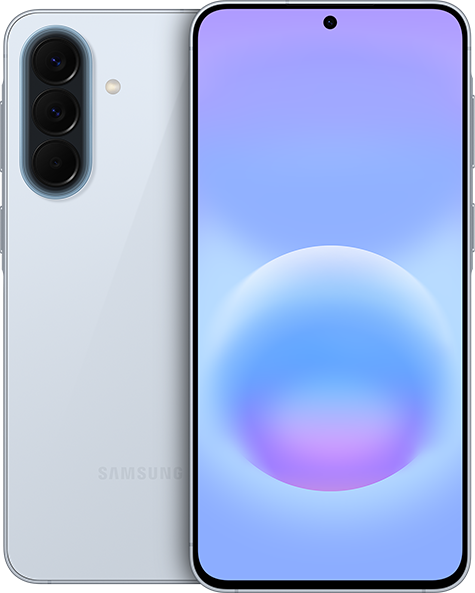
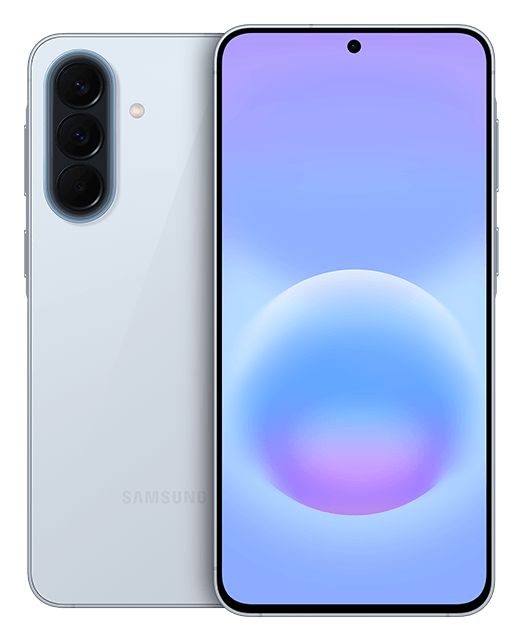
perf(visuels): recadrer et alléger les neuf visuels produits existants
Recadrage homogène (marge transparente de 4 % autour du produit), 900 px
au plus, PNG à palette quand l'écart reste invisible : ip18.png passe de
789 Ko à 157 Ko, l'ensemble des neuf visuels de 2,3 Mo à 0,75 Mo.

diff --git a/src/data/catalog.ts b/src/data/catalog.ts
@@ -97,8 +97,8 @@ export const products: readonly ProductDetail[] = [
     min_price_fcfa: 849000,
     in_stock: true,
     image_src: "/products/ip18.png",
-    image_width: 618,
-    image_height: 746,
+    image_width: 505,
+    image_height: 600,
     image_alt: "iPhone 18 Pro bordeaux, vue de face et de dos",
     variants: [
       variant("IP18-BOR-256", "Bordeaux · 256 Go", "bordeaux", "#5A1F2B", 849000, 0, {
@@ -146,8 +146,8 @@ export const products: readonly ProductDetail[] = [
     min_price_fcfa: 349000,
     in_stock: true,
     image_src: "/products/a57.png",
-    image_width: 475,
-    image_height: 593,
+    image_width: 523,
+    image_height: 641,
     image_alt: "Galaxy A57 5G bleu clair, vues de face et de dos",
     variants: [
       variant("A57-BLE-128", "Bleu glacier · 128 Go", "bleu-glacier", "#CFE0EE", 349000, 0, {
@@ -194,8 +194,8 @@ export const products: readonly ProductDetail[] = [
     min_price_fcfa: 289000,
     in_stock: true,
     image_src: "/products/rn15.png",
-    image_width: 409,
-    image_height: 599,
+    image_width: 457,
+    image_height: 647,
     image_alt: "Redmi Note 15 Pro+ 5G, plusieurs coloris",
     variants: [
       variant("RN15-NOI-256", "Noir · 256 Go", "noir", "#26282E", 289000, 0, {
@@ -244,8 +244,8 @@ export const products: readonly ProductDetail[] = [
     min_price_fcfa: 95000,
     in_stock: true,
     image_src: "/products/ap5.png",
-    image_width: 554,
-    image_height: 813,
+    image_width: 620,
+    image_height: 879,
     image_alt: "Écouteurs AirPods 5 et boîtier de recharge",
     variants: [variant("AP5-BLA", "Blanc", "blanc", "#FFFFFF", 95000, 0, { stock: 24 })],
     specs: {
@@ -273,8 +273,8 @@ export const products: readonly ProductDetail[] = [
     min_price_fcfa: 119000,
     in_stock: true,
     image_src: "/products/gb4.png",
-    image_width: 424,
-    image_height: 583,
+    image_width: 470,
+    image_height: 629,
     image_alt: "Écouteurs Galaxy Buds 4 blancs et boîtier",
     variants: [
       variant("GB4-BLA", "Blanc", "blanc", "#FFFFFF", 119000, 0),
@@ -305,8 +305,8 @@ export const products: readonly ProductDetail[] = [
     min_price_fcfa: 279000,
     in_stock: true,
     image_src: "/products/aw12.png",
-    image_width: 406,
-    image_height: 482,
+    image_width: 444,
+    image_height: 520,
     image_alt: "Apple Watch Series 12 avec bracelet sombre",
     variants: [
       variant("AW12-42-GRA", "42 mm · Graphite", "graphite", "#2C2C30", 279000, 0, {
@@ -344,8 +344,8 @@ export const products: readonly ProductDetail[] = [
     min_price_fcfa: 249000,
     in_stock: true,
     image_src: "/products/gw9.png",
-    image_width: 410,
-    image_height: 480,
+    image_width: 448,
+    image_height: 518,
     image_alt: "Galaxy Watch 9 ronde avec bracelet graphite",
     variants: [
       variant("GW9-40-GRA", "40 mm · Graphite", "graphite", "#33343A", 249000, 0, {
@@ -384,8 +384,8 @@ export const products: readonly ProductDetail[] = [
     min_price_fcfa: 69000,
     in_stock: true,
     image_src: "/products/rw6.png",
-    image_width: 387,
-    image_height: 612,
+    image_width: 435,
+    image_height: 660,
     image_alt: "Redmi Watch 6 noire",
     variants: [
       variant("RW6-NOI", "Noir", "noir", "#1E1E21", 69000, 0),
@@ -418,8 +418,8 @@ export const products: readonly ProductDetail[] = [
     min_price_fcfa: 32000,
     in_stock: true,
     image_src: "/products/sb10.png",
-    image_width: 103,
-    image_height: 313,
+    image_width: 129,
+    image_height: 339,
     image_alt: "Bracelet connecté Xiaomi Smart Band 10",
     variants: [
       variant("SB10-NOI", "Noir", "noir", "#29292D", 32000, 0),
